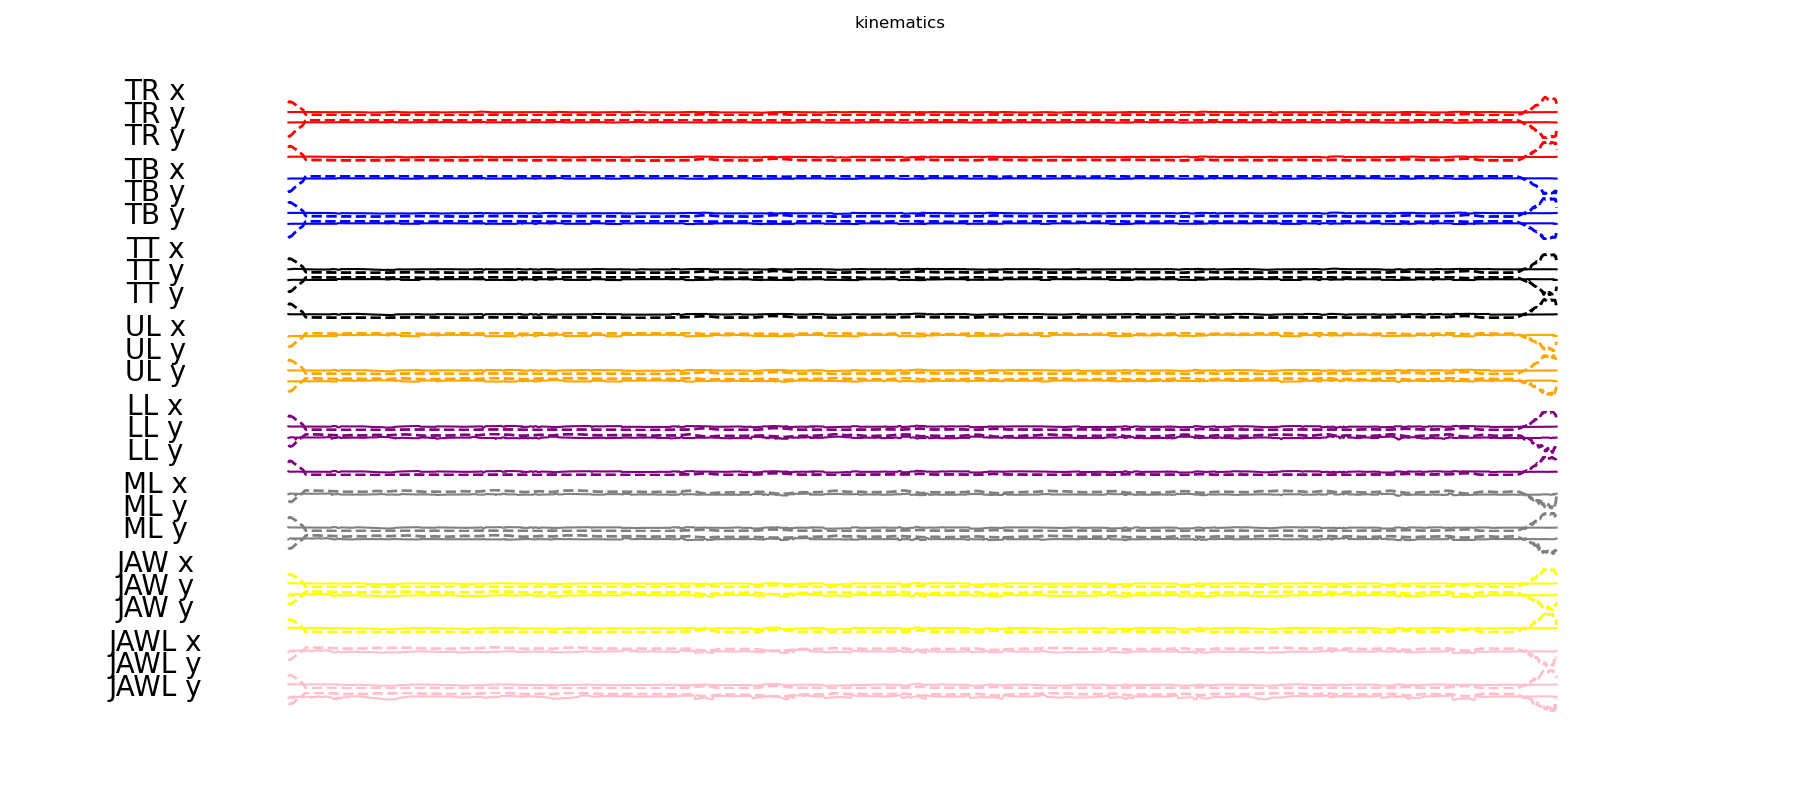
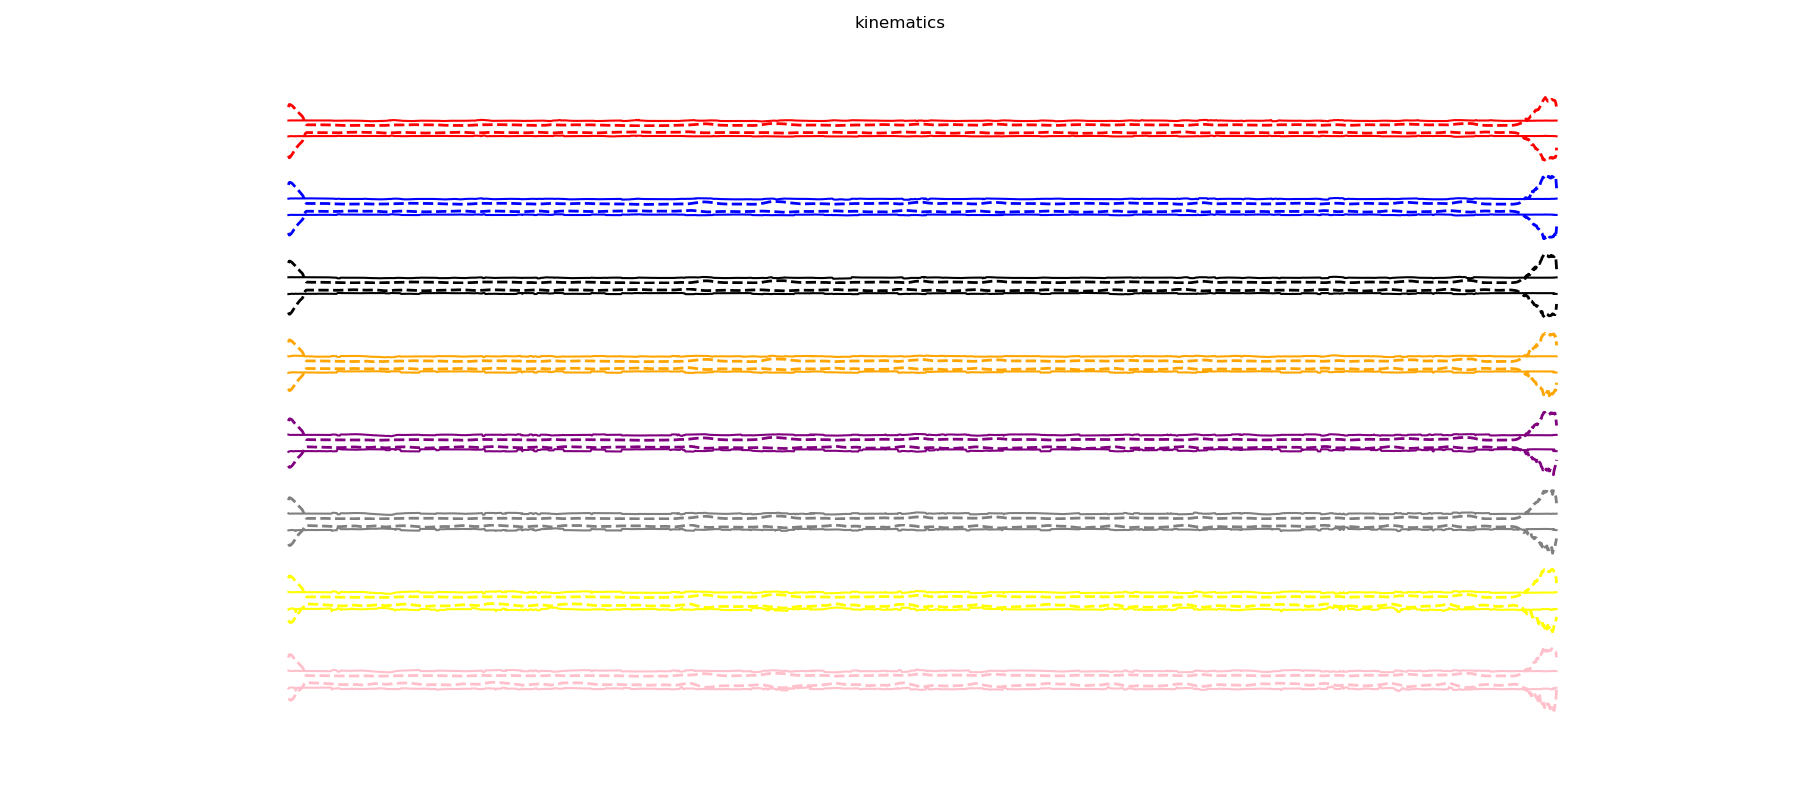
can vis everything for rtMRI, but still nee improvement

diff --git a/src/utils.py b/src/utils.py
@@ -407,14 +407,14 @@ def draw_kinematics_rtMRI(ema_data, ema_data_hat, mode, title, **args):
     outer = gridspec.GridSpec(8, 1, wspace=0.2, hspace=0.2)
     labels = ['TR', 'TB', 'TT', 'UL', 'LL', 'ML','JAW', 'JAWL']
     for i in range(8):
-        inner = gridspec.GridSpecFromSubplotSpec(3, 1, subplot_spec=outer[i], wspace=0.1, hspace=0.1)
-        for j in range(3):
+        inner = gridspec.GridSpecFromSubplotSpec(2, 1, subplot_spec=outer[i], wspace=0.1, hspace=0.1)
+        for j in range(2):
             ax = plt.Subplot(fig, inner[j])
-            _data = ema_data[:,i*3+j] #shape is (win_size,)
+            _data = ema_data[:,i*2+j] #shape is (win_size,)
             ax.plot(x, _data,c=colors[i], label='ori')
             #ax.plot(x, _data,c=colors[i], label='ori', linewidth=10)
             if mode == 'kinematics':
-                ax.plot(x, ema_data_hat[:,i*3+j],c=colors[i], label='rec', linestyle='dashed', linewidth=2)
+                ax.plot(x, ema_data_hat[:,i*2+j],c=colors[i], label='rec', linestyle='dashed', linewidth=2)
             ax.set_xticks([])
             ax.set_yticks([])
             fig.add_subplot(ax)
@@ -424,11 +424,11 @@ def draw_kinematics_rtMRI(ema_data, ema_data_hat, mode, title, **args):
             ax.spines['left'].set_visible(False)
             #ax.get_xaxis().set_ticks([])
             #ax.get_yaxis().set_ticks([])
-            if j == 0:
-                ax.set_ylabel(labels[i]+' x',rotation=0, fontsize=20, labelpad=10)
-            else:
-                ax.set_ylabel(labels[i]+' y',rotation=0,fontsize=20, labelpad=10)
-            ax.yaxis.set_label_coords(-0.05,0.5)
+            #if j == 0:
+            #    ax.set_ylabel(labels[i]+' x',rotation=0, fontsize=20, labelpad=10)
+            #else:
+            #    ax.set_ylabel(labels[i]+' y',rotation=0,fontsize=20, labelpad=10)
+            #ax.yaxis.set_label_coords(-0.05,0.5)
             
     #plt.savefig(os.path.join(args['save_path'], title+"_"+".png"))
     plt.savefig(title+"_"+".png")
@@ -707,14 +707,11 @@ def vis_gestures_rtMRI(model, **args):
     if args['vq_resynthesis']:
         gestures = model.vq_model._embedding.weight.reshape(args['num_gestures'], args['num_pellets'], args['win_size']).permute(1,0,2).unsqueeze(1)
     else:
-        gestures = model.model.conv_decoder.weight
+        gestures = model.conv_decoder.weight
     
-    ema_id, wav_path, mel_data, text_trans = ema2info(**args)
-    draw_mel_ema(mels=mel_data, mode=ema_id, title=text_trans)
-    #draw_mel2(wav=wav_path, mode=ema_id, title=text_trans)
     for i in range(args['num_gestures']):
         gesture_index = i
-        draw_kinematics_ema(gestures[:,0,gesture_index,:].transpose(0,1).unsqueeze(0).cpu().detach().numpy(), None, mode='gesture', title='Gesture '+str(gesture_index), **args)
+        draw_kinematics_rtMRI(gestures[:,0,gesture_index,:].transpose(0,1).unsqueeze(0).cpu().detach().numpy(), None, mode='gesture', title='Gesture '+str(gesture_index), **args)
         draw_2d_ema(gestures[:,0,gesture_index,:].transpose(0,1).cpu().detach().numpy(), None, mode='gesture', title='Gesture '+str(gesture_index), **args)
         
 

diff --git a/src/main.py b/src/main.py
@@ -13,7 +13,7 @@ import torch.nn.functional as F
 from dataloader import EMA_Dataset, IEEE_Dataset, rtMRI_Dataset, collate
 from models.csnmf import AE_CSNMF, PR_Model, VQ_AE_CSNMF
 from trainer import trainer_resynthesis_ema, trainer_resynthesis_ieee, trainer_pr, eval_resynthesis_ema, eval_resynthesis_ieee, eval_pr
-from utils import vis_gestures_ema, vis_kinematics_ema, vis_gestures_ieee, vis_kinematics_ieee, vis_kinematics_rtMRI, vis_H
+from utils import vis_gestures_ema, vis_gestures_rtMRI, vis_kinematics_ema, vis_gestures_ieee, vis_kinematics_ieee, vis_kinematics_rtMRI, vis_H
 import seaborn as sns
 
 import warnings
